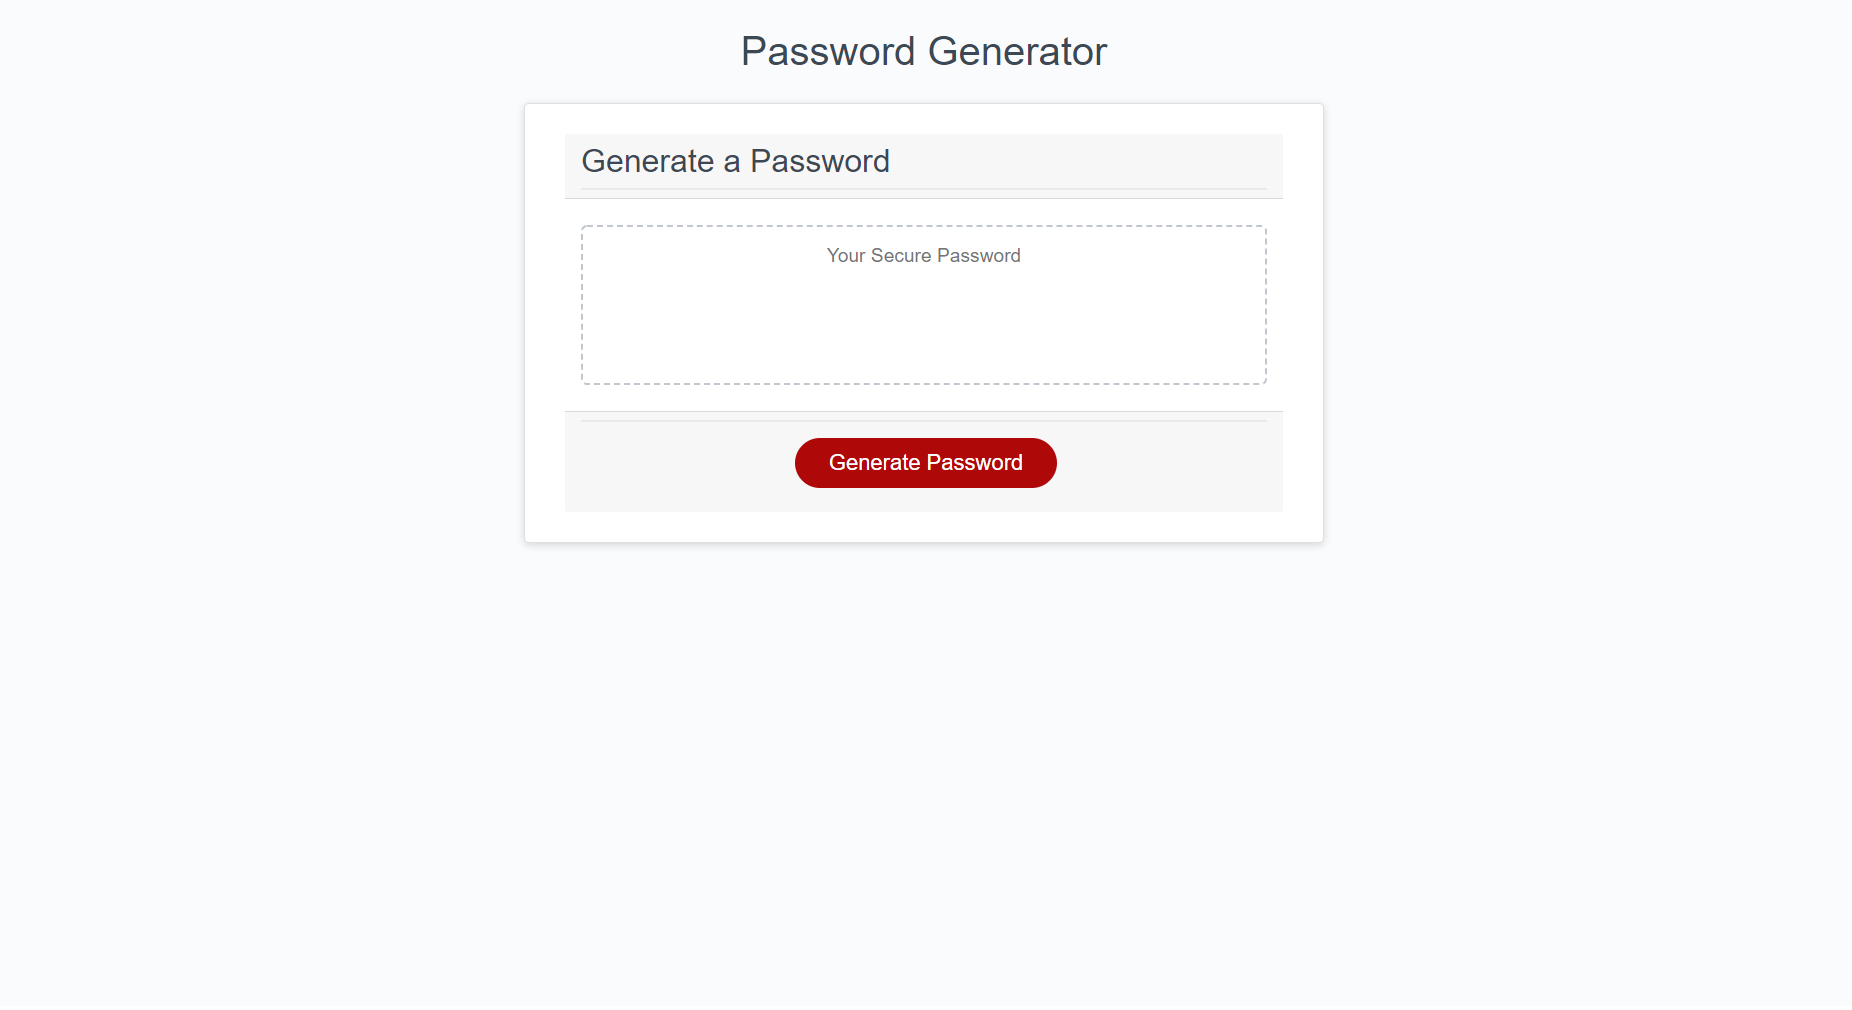
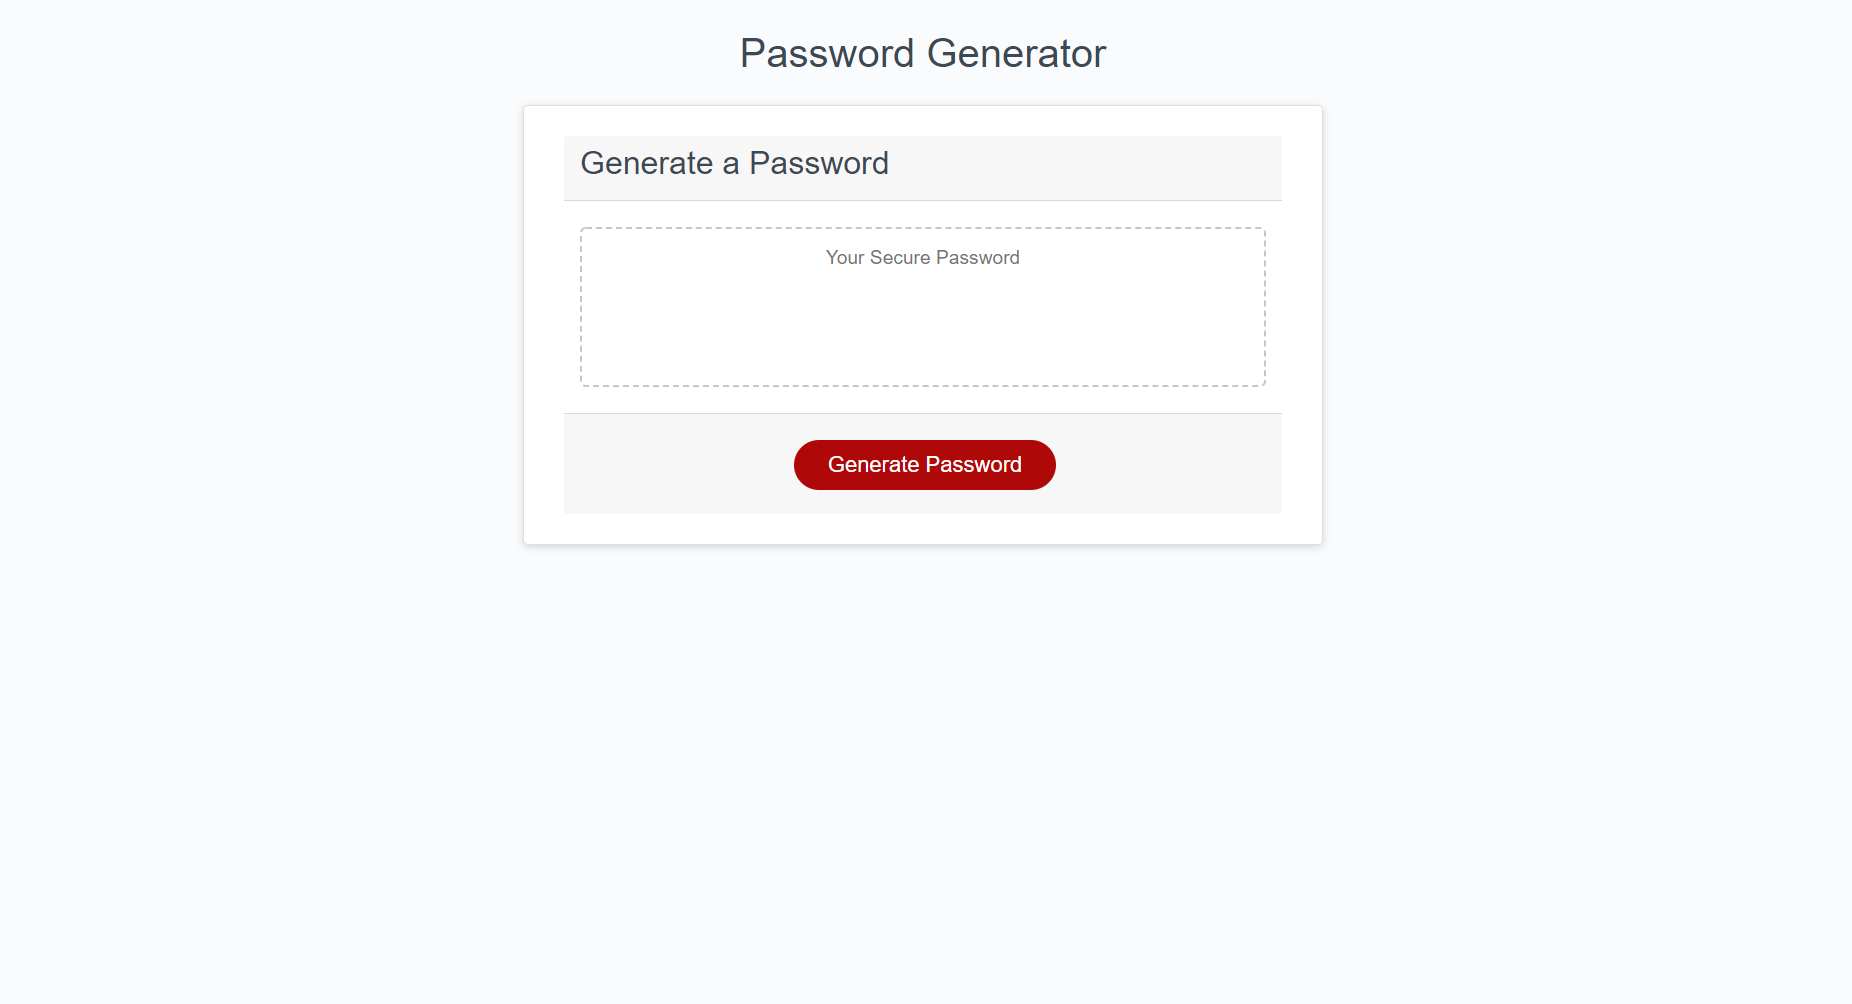
minor css tweak to fix gray lines appearing in header and footer of main page card, updated screenshots to reflect change

diff --git a/assets/styles/style.css b/assets/styles/style.css
@@ -47,7 +47,6 @@ header {
   content: " ";
   display: block;
   width: 100%;
-  background: #e7e9eb;
   height: 2px;
 }
 
@@ -63,7 +62,6 @@ header {
   content: " ";
   display: block;
   width: 100%;
-  background: #e7e9eb;
   height: 2px;
 }
 
